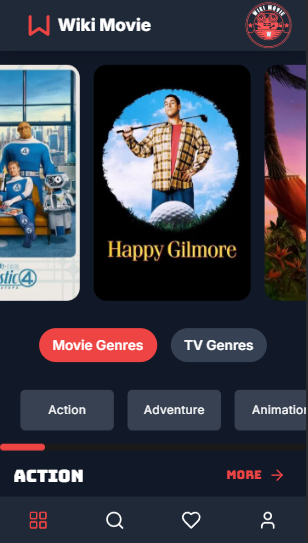
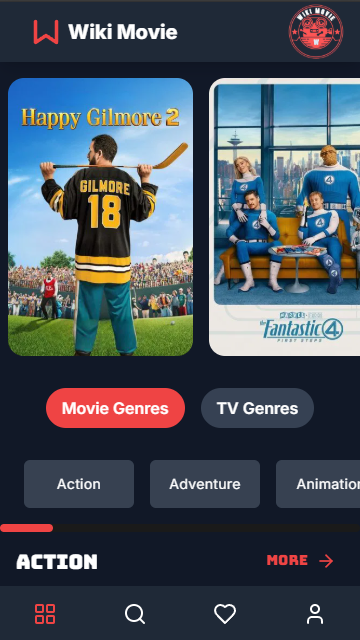
add new mobileView screenshot and fix dimensions

diff --git a/nuxt.config.ts b/nuxt.config.ts
@@ -76,13 +76,13 @@ export default defineNuxtConfig(<any>{
       screenshots: [
         {
           src: "/screenshots/homepage.png",
-          sizes: "643x1365",
+          sizes: "1365x643",
           type: "image/png",
           form_factor: "wide",
         },
         {
           src: "/screenshots/mobileview.png",
-          sizes: "308x543",
+          sizes: "360x640",
           type: "image/png",
           form_factor: "narrow",
         },
